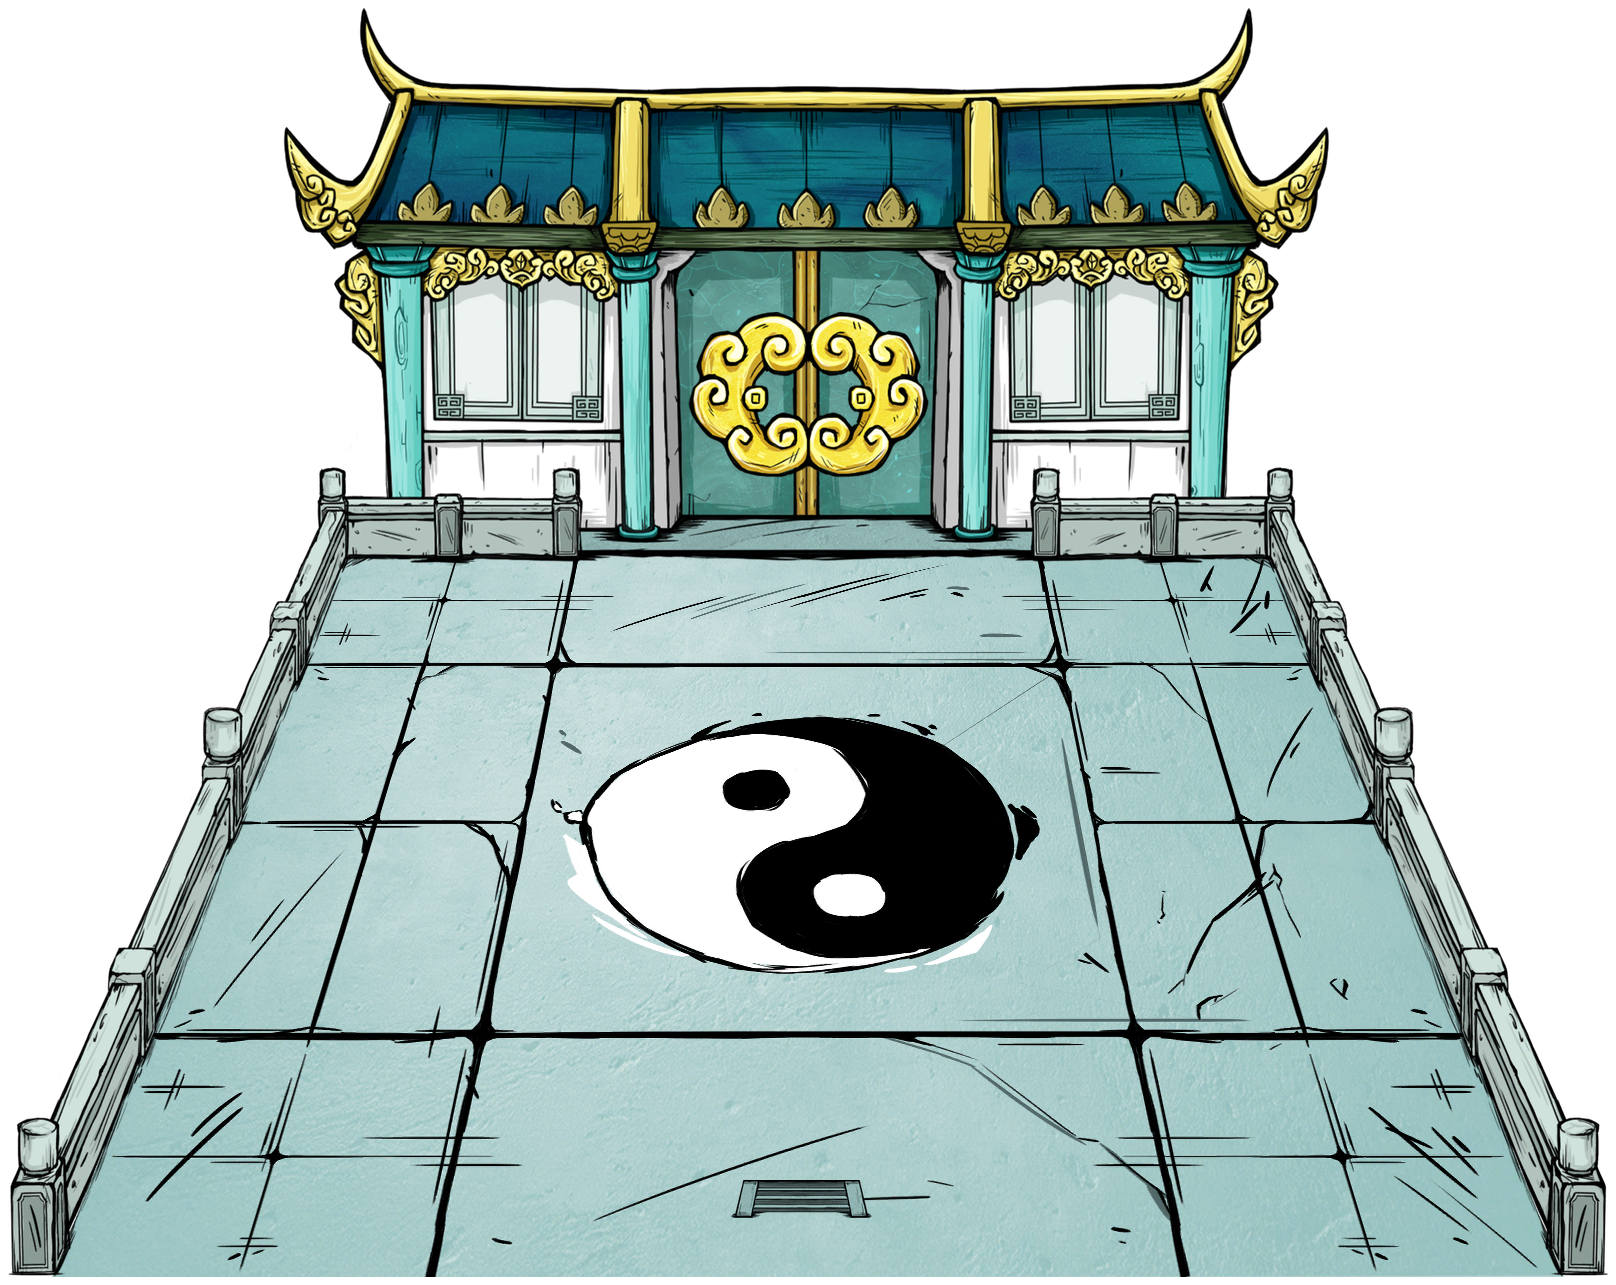
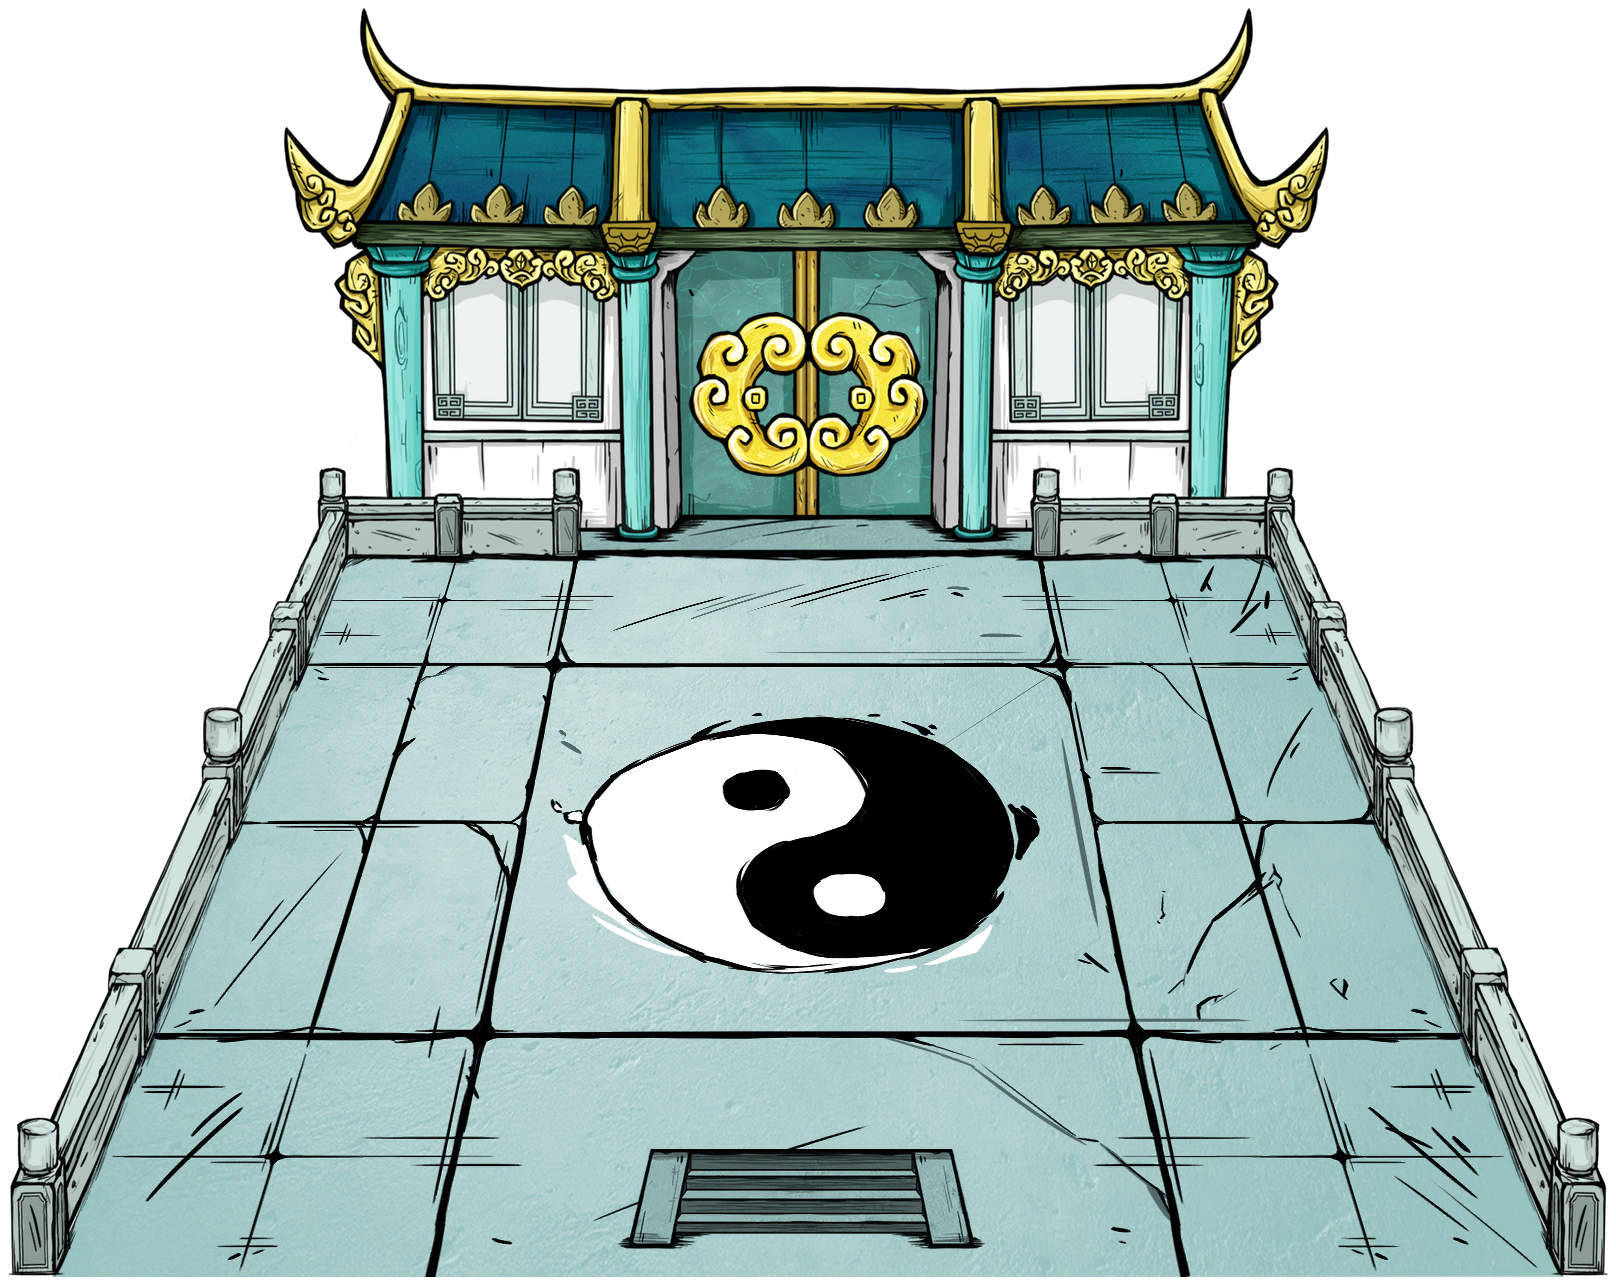
Fix room preview proportions and show full entrance routes

Changed region(s): [[0.3713, 0.8716, 0.6188, 0.9961]]

diff --git a/data/site-data.js b/data/site-data.js
@@ -3698,7 +3698,7 @@ window.SITE_DATA = {
       "preview_caption": "前室内景预览",
       "scene_hotspots": [
         {"label": "鎏金太极铃", "target": "loc_hall", "x": 50.0309, "y": 30.7393, "width": 14.9134, "height": 12.9183, "hint": "进入厅堂"},
-        {"label": "青石楼梯", "target": "loc_qingxuan", "x": 49.5978, "y": 93.3074, "width": 8.849, "height": 2.9572, "hint": "回到屋外"}
+        {"label": "青石楼梯", "target": "loc_qingxuan", "x": 49.5978, "y": 93.3074, "width": 22.9579, "height": 7.7821, "hint": "回到屋外"}
       ],
       "scene_hint": "点击图中鎏金太极铃、青石楼梯，前往对应位置。",
       "summary": "进门后首先到达的房间：青石楼梯回屋外，鎏金太极铃通厅堂。入内即享有青玄阁的避难与温控保护。",
@@ -3734,9 +3734,9 @@ window.SITE_DATA = {
       "illustration": "assets/img/terrains/loc_hall.png",
       "preview_caption": "厅堂内景预览",
       "scene_hotspots": [
-        {"label": "引霄灵藤（左侧）", "target": "loc_bedroom", "x": 25.3713, "y": 58.978, "width": 9.6535, "height": 31.0411, "hint": "进入左侧卧房", "hint_align": "start"},
-        {"label": "引霄灵藤（右侧）", "target": "loc_bedroom_right", "x": 74.6287, "y": 58.978, "width": 9.6535, "height": 31.0411, "hint": "进入右侧卧房", "hint_align": "end"},
-        {"label": "青石楼梯", "target": "loc_foyer", "x": 49.5978, "y": 92.5024, "width": 8.1064, "height": 3.3429, "hint": "返回前室"}
+        {"label": "引霄灵藤（左侧）", "target": "loc_bedroom", "x": 25.2475, "y": 51.3849, "width": 14.4802, "height": 46.6094, "hint": "进入左侧卧房", "hint_align": "start"},
+        {"label": "引霄灵藤（右侧）", "target": "loc_bedroom_right", "x": 74.7525, "y": 51.3849, "width": 14.4802, "height": 46.6094, "hint": "进入右侧卧房", "hint_align": "end"},
+        {"label": "青石楼梯", "target": "loc_foyer", "x": 49.6287, "y": 92.4546, "width": 21.0396, "height": 8.787, "hint": "返回前室"}
       ],
       "scene_hint": "点击图中引霄灵藤（左侧）、引霄灵藤（右侧）、青石楼梯，前往对应位置。",
       "summary": "青玄阁内连接两间卧房的厅堂，共用防猎犬生成、恒温、避雨与夜间照明。太极莲尊是陈设。",
@@ -3777,7 +3777,7 @@ window.SITE_DATA = {
       "aliases": ["阁主卧房", "左侧卧房"],
       "illustration": "assets/img/terrains/loc_bedroom.png",
       "scene_hotspots": [
-        {"label": "鎏角青玄门", "target": "loc_hall", "x": 88.6139, "y": 81.9477, "width": 12.3762, "height": 22.9612, "hint": "返回厅堂", "hint_align": "end"}
+        {"label": "鎏角青玄门", "target": "loc_hall", "x": 88.552, "y": 75.0594, "width": 19.802, "height": 36.7379, "hint": "返回厅堂", "hint_align": "end"}
       ],
       "preview_caption": "左侧卧房内景预览",
       "scene_hint": "点击图中鎏角青玄门，前往对应位置。",
@@ -3818,7 +3818,7 @@ window.SITE_DATA = {
       "aliases": ["右侧卧房"],
       "illustration": "assets/img/terrains/loc_bedroom_right.png",
       "scene_hotspots": [
-        {"label": "银翘古木门", "target": "loc_hall", "x": 11.3243, "y": 81.7894, "width": 12.3762, "height": 22.9612, "hint": "返回厅堂", "hint_align": "start"}
+        {"label": "银翘古木门", "target": "loc_hall", "x": 11.3243, "y": 74.8219, "width": 19.802, "height": 36.7379, "hint": "返回厅堂", "hint_align": "start"}
       ],
       "preview_caption": "右侧卧房内景预览",
       "scene_hint": "点击图中银翘古木门，前往对应位置。",

diff --git a/assets/js/render.js b/assets/js/render.js
@@ -14,6 +14,30 @@
     root.innerHTML = window.Mustache.render(template(tplId), view || {});
   }
 
+  function buildingRoute(entries, id) {
+    const entrance = entries.find(function (entry) { return entry.building_entry; });
+    if (!entrance) return [];
+    const byId = new Map(entries.map(function (entry) { return [entry.id, entry]; }));
+    const queue = [[entrance.id]];
+    const seen = new Set([entrance.id]);
+    for (let index = 0; index < queue.length; index++) {
+      const path = queue[index];
+      const current = byId.get(path[path.length - 1]);
+      if (current.id === id) {
+        return path.map(function (step, position) {
+          const entry = byId.get(step);
+          return { id: step, name: entry.title || entry.name, current: step === id, first: position === 0 };
+        });
+      }
+      (current.building_exits || []).forEach(function (exit) {
+        if (!byId.has(exit.target) || seen.has(exit.target)) return;
+        seen.add(exit.target);
+        queue.push(path.concat(exit.target));
+      });
+    }
+    return [];
+  }
+
   App.sections = (window.SITE_DATA && window.SITE_DATA.sections) || [
     {
       id: "items",
@@ -239,6 +263,7 @@
             return { title: highlight.title, html: App.Linkify.textToHtml(highlight.text, { emphasizeNumbers: true }) };
           }),
           building_entry: entry.building_entry || null,
+          building_route: buildingRoute(data, entry.id),
           building_exits: entry.building_exits || [],
           scene_hotspots: (entry.scene_hotspots || []).map(function (hotspot) {
             return { ...hotspot, position: 'left:' + Number(hotspot.x) + '%;top:' + Number(hotspot.y) + '%;width:' + Number(hotspot.width) + '%;height:' + Number(hotspot.height) + '%' };

diff --git a/index.html b/index.html
@@ -295,6 +295,13 @@
             {{#scene_hotspots}}<button class="scene-hotspot" type="button" style="{{position}}" data-building-room="{{target}}" data-hint-align="{{hint_align}}" aria-label="{{label}}：{{hint}}"><span class="scene-hotspot__hint">{{label}} · {{hint}} →</span></button>{{/scene_hotspots}}
           </div>
           <p class="building-entry__caption"><span>{{number}}</span> {{#preview_caption}}{{preview_caption}}{{/preview_caption}}{{^preview_caption}}屋外入口{{/preview_caption}}</p>
+          <nav class="building-route" aria-label="入阁路线">
+            <ol>
+              {{#building_route}}
+              <li>{{^first}}<span class="building-route__arrow" aria-hidden="true">›</span>{{/first}}{{#current}}<span aria-current="step">{{name}}</span>{{/current}}{{^current}}<button type="button" data-building-room="{{id}}">{{name}}</button>{{/current}}</li>
+              {{/building_route}}
+            </ol>
+          </nav>
           <div class="building-entry__exits" role="group" aria-label="从{{name}}出发">
             {{#building_exits}}<button type="button" data-building-room="{{target}}">{{label}} <span aria-hidden="true">→</span></button>{{/building_exits}}
           </div>

diff --git a/assets/css/components.css b/assets/css/components.css
@@ -1257,7 +1257,15 @@
   .building-entry__enter-label { display: none; }
 }
 
-.building-entry__exits { display: flex; flex-wrap: wrap; gap: 10px; margin-top: 16px; }
+.building-route { margin-top: 12px; }
+.building-route ol { display: flex; flex-wrap: wrap; gap: 2px 10px; margin: 0; padding: 0; list-style: none; }
+.building-route li { display: inline-flex; align-items: baseline; gap: 10px; font-size: 12px; line-height: 1.8; }
+.building-route button { padding-block: 4px; color: var(--ink-3); border-bottom: 1px solid transparent; }
+.building-route button:hover { color: var(--cinnabar); border-bottom-color: currentColor; }
+.building-route [aria-current] { padding-block: 4px; color: var(--cinnabar); }
+.building-route__arrow { color: var(--ink-3); }
+
+.building-entry__exits { display: flex; flex-wrap: wrap; gap: 10px; margin-top: 12px; }
 .building-entry__exits button { display: inline-flex; align-items: center; gap: 12px; padding: 8px 12px; border: var(--bd); color: var(--ink-2); font-size: 13px; }
 .building-entry__exits button:hover { color: var(--cinnabar); border-color: currentColor; }
 

diff --git a/tools/export_terrain_previews.py b/tools/export_terrain_previews.py
@@ -37,38 +37,45 @@ FLOOR_QUADS = {
 # World positions are (x, z) relative to each house centre. Preview offsets
 # bring the vines onto the visible inner edge of the cutaway wall; they are
 # image-space calibration, not changes to the mod's world coordinates.
+# preview_scale also calibrates the cutaway composition: foreground doors and
+# steps must remain readable beside the separately projected floor and walls.
+# It scales both axes together and is not a prefab Transform:SetScale value.
 FURNISHINGS = {
     'loc_foyer': [
         {'prefab': 'bighead_men1', 'animation': 'men1', 'center': (808, 395),
          'world_position': (-14, 0), 'target': 'loc_hall',
          'label': '鎏金太极铃', 'hint': '进入厅堂'},
         {'prefab': 'bighead_door_exit', 'source': 'bighead_door_exit',
-         'animation': 'idle', 'world_position': (14, -.15),
+         'animation': 'idle', 'world_position': (14, -.15), 'preview_scale': 2.6,
          'target': 'loc_qingxuan', 'label': '青石楼梯', 'hint': '回到屋外'},
     ],
     'loc_hall': [
         {'prefab': 'bighead_yizi', 'animation': 'yizi',
          'world_position': (-15.3, 0)},
         {'prefab': 'bighead_men2', 'animation': 'men2',
+         'preview_scale': 1.5,
          'world_position': (1.65, -15), 'preview_offset': (110, 115),
          'target': 'loc_bedroom', 'label': '引霄灵藤（左侧）',
          'hint': '进入左侧卧房', 'hint_align': 'start'},
         {'prefab': 'bighead_men2', 'animation': 'men2',
+         'preview_scale': 1.5,
          'world_position': (1.65, 15), 'mirror_x': True,
          'preview_offset': (-110, 115),
          'target': 'loc_bedroom_right', 'label': '引霄灵藤（右侧）',
          'hint': '进入右侧卧房', 'hint_align': 'end'},
         {'prefab': 'bighead_door_exit', 'source': 'bighead_door_exit',
-         'animation': 'idle', 'world_position': (14, -.15),
+         'animation': 'idle', 'world_position': (14, -.15), 'preview_scale': 2.6,
          'target': 'loc_foyer', 'label': '青石楼梯', 'hint': '返回前室'},
     ],
     'loc_bedroom': [
         {'prefab': 'bighead_men3', 'animation': 'men3',
+         'preview_scale': 1.6,
          'world_position': (14, 14), 'target': 'loc_hall',
          'label': '鎏角青玄门', 'hint': '返回厅堂', 'hint_align': 'end'},
     ],
     'loc_bedroom_right': [
         {'prefab': 'bighead_men4', 'animation': 'men4',
+         'preview_scale': 1.6,
          'world_position': (14, -14), 'target': 'loc_hall',
          'label': '银翘古木门', 'hint': '返回厅堂', 'hint_align': 'start'},
     ],
@@ -136,7 +143,8 @@ def composite_furnishings(scene, entry_id, ratio, scratch, frames):
                   sprite.height / 2 - frame['y'] - bounds[1])
         sprite = sprite.crop(bounds)
         width, height = sprite.size
-        sprite = sprite.resize((round(width * ratio), round(height * ratio)),
+        scale = ratio * furnishing.get('preview_scale', 1)
+        sprite = sprite.resize((round(width * scale), round(height * scale)),
                                Image.Resampling.LANCZOS)
         anchor = (anchor[0] * sprite.width / width,
                   anchor[1] * sprite.height / height)
@@ -156,7 +164,7 @@ def composite_furnishings(scene, entry_id, ratio, scratch, frames):
                   'source': furnishing.get('source', 'bighead_men'),
                   'animation': animation, 'frame': 1,
                   'bounds': [*position, *sprite.size]}
-        for key in ('target', 'world_position', 'mirror_x', 'preview_offset',
+        for key in ('target', 'world_position', 'mirror_x', 'preview_offset', 'preview_scale',
                     'label', 'hint', 'hint_align'):
             if key in furnishing:
                 record[key] = furnishing[key]

diff --git a/docs/04-v4.8资料同步.md b/docs/04-v4.8资料同步.md
@@ -101,16 +101,21 @@ python tools/export_mod_displays.py --tool "C:/tools/dst-app.exe" --mod "../bigh
 条目 `scene_hotspots` 使用相对坐标覆盖铃铛，鼠标点击、触摸或键盘激活会打开厅堂详情。
 
 厅堂另外叠入同一动画包的 `yizi`（太极莲尊）和两份 `men2`（引霄灵藤）第1帧。
-使用与墙景一致的缩小比例，根据房间生成代码中相对中心的坐标，将各自的动画原点投影到
+先使用墙景的缩小比例，根据房间生成代码中相对中心的坐标，将各自的动画原点投影到
 同一地面平面；右侧灵藤按代码中的 `eastside` 水平镜像。灵藤在剖面预览中向室内地面校准，
 图像偏移单列为 `preview_offset`，不将其冒充模组坐标。
 
 前室与厅堂的前方补入 `bighead_door_exit.zip` 的 `idle` 出口台阶；左、右卧房分别补入
 `bighead_men.zip` 的 `men3`（鎏角青玄门）和 `men4`（银翘古木门）。门与台阶使用各自的
-实际生成坐标、原始朝向和墙景缩小比例。清单记录素材、房间坐标、镜像及最终图像边界；
+实际生成坐标与原始朝向。剖面预览在墙景缩小比例上另作等比校准：灵藤1.5倍、台阶2.6倍、
+卧房门1.6倍，避免独立陈设在宽幅墙景中显得过小；铃铛和莲尊保留墙景缩小比例。
+校准单列为 `preview_scale`，仅用于合成展示，不代表游戏中的实体缩放。
+清单记录素材、房间坐标、镜像及最终图像边界；
 导出脚本根据最终边界同步条目 `scene_hotspots`，避免图像移位后点击区域停在旧位置。
 建筑区点击陈设原地切换对应房间，详情弹窗中打开对应房间详情。鼠标悬停与键盘聚焦只显示
 简洁名称提示，不再用红圈遮挡原图。室内展示容器跟随各张原图比例。
+每张预览下方按实际连接展示从屋外到当前房间的完整入阁路线，当前房间单独标识，
+前序节点可点击返回；直接相连的门和台阶仍保留操作按钮。切换房间不主动滚动页面。
 
 ```powershell
 python tools/export_terrain_previews.py --tool "C:/tools/dst-app.exe" --mod "../bighead.zip"
